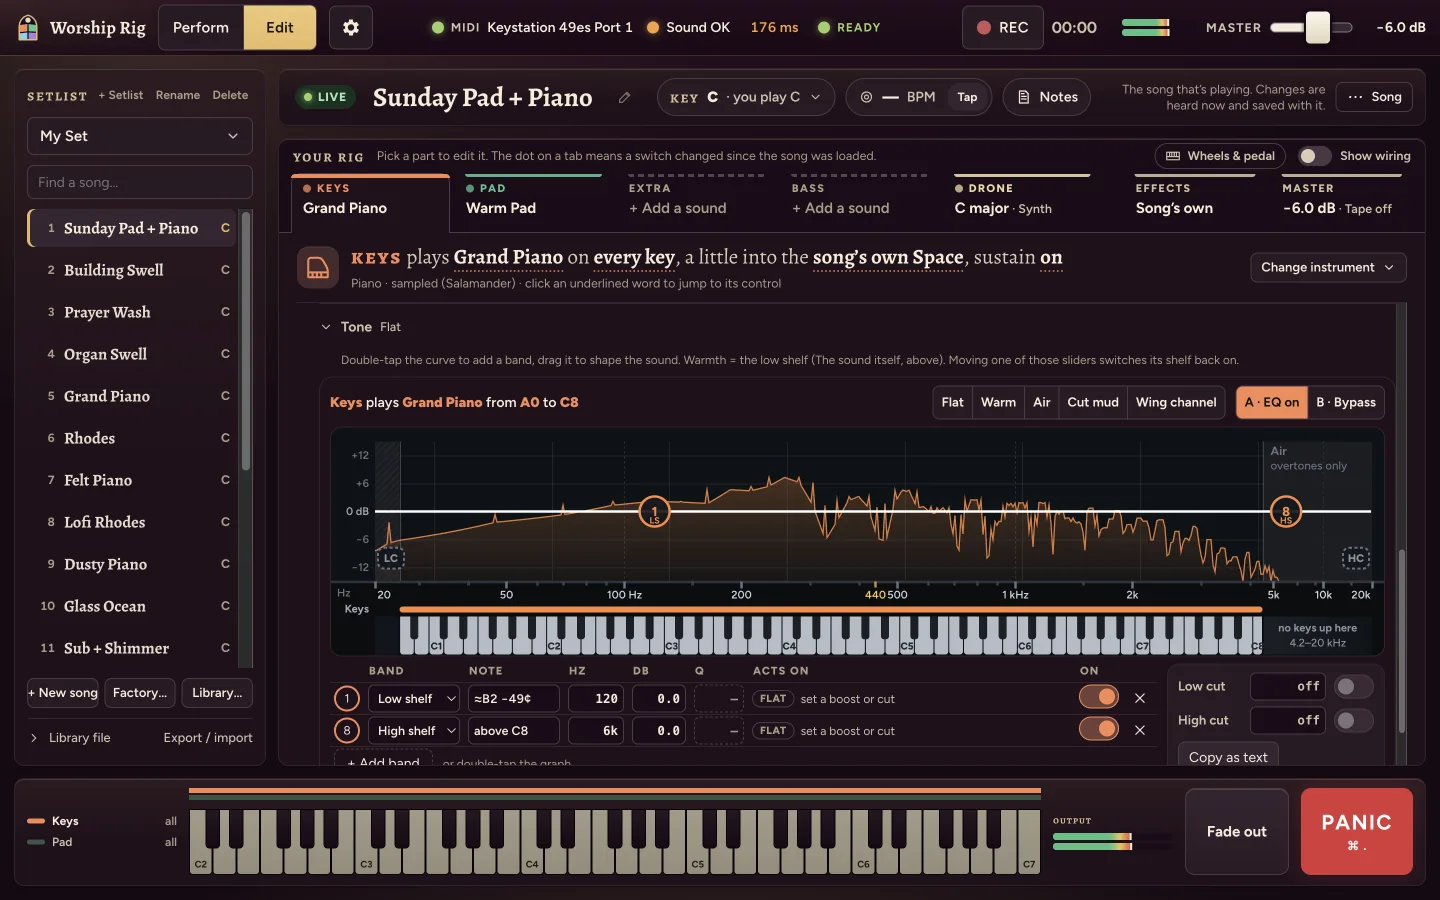
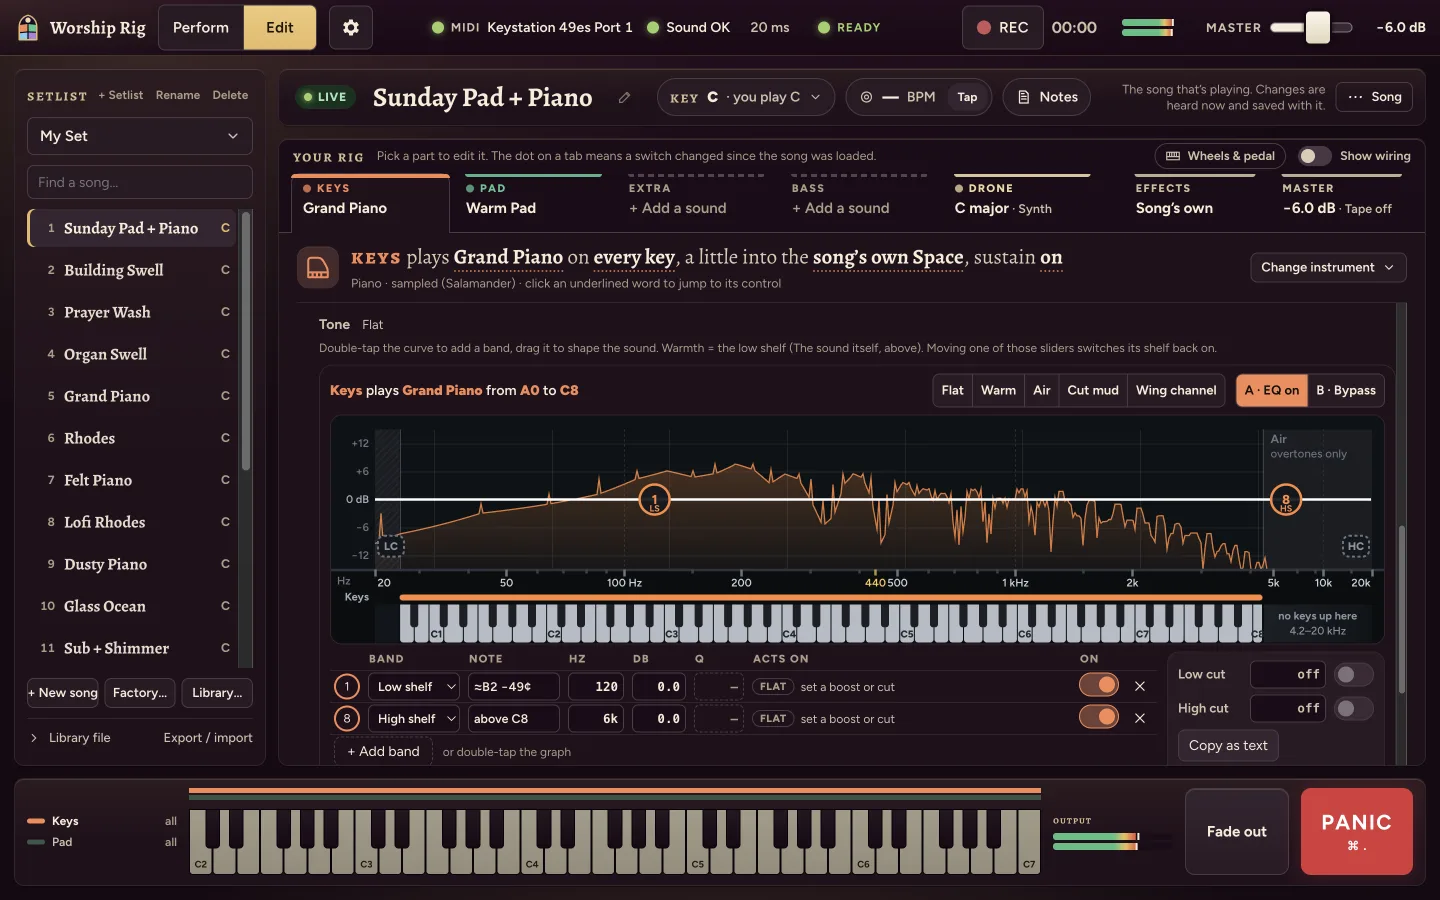
site: Edit screenshot with EQ under Advanced; eyeball checks

Changed region(s): [[0.2188, 0.4978, 0.9688, 0.8711], [0.2188, 0.3422, 0.9688, 0.4667], [0.9688, 0.7778, 1.0, 0.8089]]

diff --git a/reviews/local-findings.md b/reviews/local-findings.md
@@ -615,3 +615,46 @@ The workflow is `.github/workflows/release.yml` (`6a1bde3`).
 
 No tag or GitHub release was created. The release job runs only for a `refs/tags/v*` ref: on a tag push, or on a
 manual run on a tag with dry_run unticked. It checks the tag against the `package.json` version first.
+
+## Final build b9f7f61: pedal ring, EQ under Advanced, Sanctuary vs Classic (2026-09-30, native macOS)
+
+Built app `dist/mac-arm64/Worship Rig.app` (b9f7f61), relaunched with `--remote-debugging-port=9333` on a fresh temp
+`RIG_USER_DATA` / `RIG_USER_SAMPLES` (factory library, Sanctuary default, 44.1 kHz context, Keystation connected).
+Playwright attached over CDP.
+
+**Pedal ring** (factory "Grand Piano", drone off; `midi._inject` on the selected input: CC64 127 → `status.pedal`
+true, note on vel 90, note off at 0.5 s, pedal kept down; stereo RMS / peak of `engine.analyserL/R` every 0.5 s for
+30 s; pedal up at the end → `status.pedal` false, silence 1.5 s later):
+- **C4 (60): RMS last ≥ −50 dBFS at 6.0 s (peak at 13.5 s), −61.9 at 14 s, then a cliff at 15.5 s (−63 → −90).**
+  That is the file's end, not a cap. CONTRACT "## sustain" lists octave 4 as 8.7–15.5 s after the onset trim, under
+  the old 16 s cap too. So "≈ 20 s" does not apply to C4.
+- **A1 (33, a 20.0 s file): RMS last ≥ −50 dBFS at 19.0 s (peak at 19.5 s), −51.6 at 18 s, −72.3 at 20 s**, silent
+  from 28 s (reverb tail). This is past the old 16 s cap, so the long `maxSec` works in the built app.
+- `pedaled` stayed 1 for the whole 30 s. No early fade.
+
+**EQ under Advanced: yes.** Edit → Keys (`.ev2-tab[data-block="slot:0"]`, selected) → click the
+`details[data-sec="slot0-adv"]` summary. Two frames later `details[data-sec="slot0-adv"] .ev2-slot-tone-host >
+section.eqk` was mounted. There is no `details[data-sec="slot0-tone"]`. The only other `summary` in Advanced is the
+EQ's own "Bring an EQ over (paste)". "Tone" is a plain heading (`.ev2-slot-adv-h`).
+- Site: sanctuary, 1440 × 900 @2× (`Emulation.setDeviceMetricsOverride`), Sunday Pad + Piano, Keys › Advanced open.
+- `edit.webp` is scrolled to the Advanced header: pan/width, transpose/voices, Tone and the EQ's top (86.7 KB).
+- `edit-eq.webp` uses the old framing, scrolled to "Tone": graph, keyboard and bands (96.1 KB).
+- Both were made with `cwebp -q 82 -resize 1440 0`.
+
+**Sanctuary vs Classic** (Sunday Pad + Piano, drone `synth` sounding with analyser peak 0.08–0.15, Perform view,
+visible 1440 × 856 window at 2×, no emulation; 10 s settle, then a 20 s window; `ps -o time=` deltas on the Renderer
+helper and the GPU pid; CDP `Performance.getMetrics` deltas). There were two interleaved rounds (S, C, then C, S):
+
+| theme | renderer % | GPU % | Layout ms/s | RecalcStyle ms/s | recalcs/s | Task ms/s |
+|---|---|---|---|---|---|---|
+| sanctuary | 37.4 / 39.8 | 5.3 / 5.5 | 0 / 0 | 3.09 / 3.42 | 29.0 / 28.9 | 48.0 / 51.7 |
+| classic | 41.4 / 42.7 | 5.9 / 6.0 | 0 / 0 | 3.72 / 3.91 | 29.3 / 28.7 | 55.1 / 54.2 |
+
+- The Sanctuary premium is gone. Before, Sanctuary cost +6–8 renderer points and +2 GPU (45–47 % vs 38.9 %; 10.8
+  vs 8.9 GPU). Now Sanctuary measures 2.9–4.0 points **below** Classic, with GPU −0.5. Both gaps are inside the
+  audio-thread noise between windows.
+- GPU is about half of the 05:32Z run on both themes (10.8 / 8.9 → 5.4 / 6.0). Either the meters are now
+  compositor-only (`will-change`), or the window size differs.
+
+Restored: nothing to restore (temp profile). The debug instance was quit, then the app was reopened with a plain
+`open` on the real profile (no 9333).

diff --git a/.cloud-outbox/status.md b/.cloud-outbox/status.md
@@ -121,3 +121,4 @@
 2026-09-30T15:35:18Z SYNC_OK 20260930T083933Z: cloud 8f99749, clean merge 3922cce, fast tier 10/12 in 14m03s (unit 287, engine 82/83+soft, instruments 143, synth-extra 153, shell 214, edit-v2 99/99, settings 37, eq 28/28, mini 14/14, chrome-fallback 15). L-26/L-27/L-28/L-29/L-21b/Bluetooth hint all green on SF Pro. Two NEW: L-31 ui-core 'polish-2A responsive' 4 strips at 1366×768: div.slot-tag '↻ wheel 100%Chorus 35%Oct 0S' 122>118 px (SF Pro width); L-32 themes 'layers' fails for ember and studio: 'no composited layer ≥ 25 % of the viewport besides the document' (your Sanctuary paint fix didn't reach those two theme files). Electron suite/build next.
 2026-09-30T15:35:18Z L-30 update (measured, not the notch-overflow story I told earlier): the tray item DOES exist (AX shows one unnamed item 40×24) but macOS 26.4 parks it at the screen origin — tray.getBounds() = {x:0,y:0,w:38,h:22} (a throwaway Electron test item got {x:0,y:982}; a native NSStatusItem got moved to the external display's bar instead). The built-in bar has 57 px free right of the notch (notch 663→848, Control Center block 905→1512 = 11 items incl. a new Now Playing/Screen Mirroring item); macOS won't place a 38 px third-party item there. Predicate for trayHidden must treat x<=0&&y<=0 as hidden as well as y>=height. Fix for Ryan: hide one Control Center item (Now Playing / Screen Mirroring / battery %) then relaunch. Implementing my half now.
 2026-09-30T15:42:35Z TRAY_HIDDEN_LOCAL_OK 44ff0b9 43c069a 093076d: predicate + cadence + popover fallback + Rig menu 'Show Worship Rig'/'Open menu-bar panel'; Electron suite 17/17, electron-full 28/28, build-lint 32/32 (1 skip: Linux boot), app rebuilt 366 MB. tray-visibility.js (new, packaged) holds trayIsHidden + fallbackPopoverBounds; origin-parked rule also requires x <= display.x so a display left of/above main isn't flagged. Fixed stale boot assertion: eventsDuringPopover now expects popoverShown/popoverHidden x2 (failing since 7071b23).
+2026-09-30T15:51:05Z EYEBALL pedal ring C4 6.0 s RMS / 13.5 s peak to −50 dBFS, file ends 15.5 s (octave-4 files are ≤ 15.5 s, so ~20 s isn't reachable on C4); A1 (20 s file) 19.0 s RMS / 19.5 s peak (expected ~20: OK, past old 16 s cap); EQ under Keys › Advanced: yes (section.eqk mounted on Advanced open, no slot0-tone details); renderer sanctuary 37.4/39.8% / classic 41.4/42.7% (GPU 5.3/5.5 / 5.9/6.0; layout 0, recalc 3.1–3.4 vs 3.7–3.9 ms/s); site edit.webp re-shot (+ edit-eq.webp, same framing as before)
